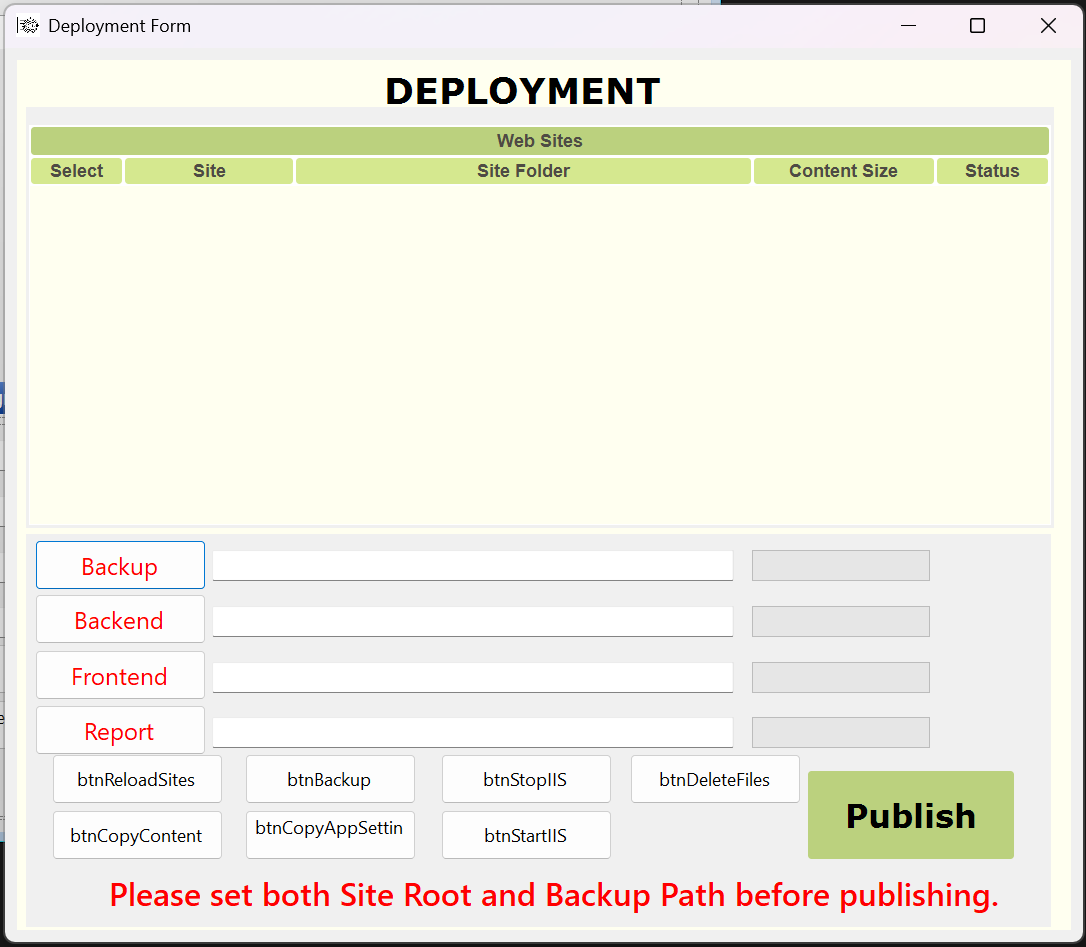
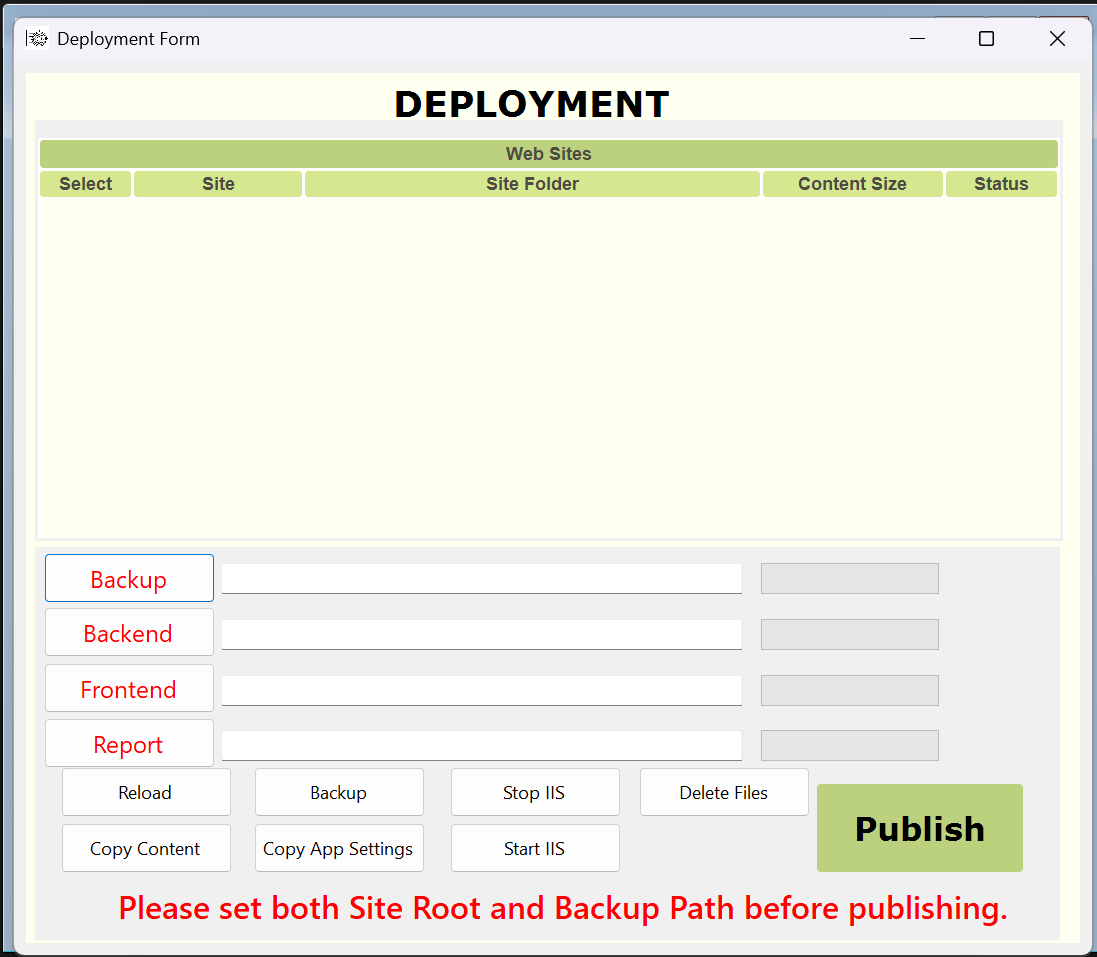
Update button labels for clarity in DeploymentForm
The text labels for several buttons in the `DeploymentForm.Designer.cs` file have been updated to be more descriptive. The changes include:
- `btnReloadSites` changed to "Reload"
- `btnBackup` changed to "Backup"
- `btnStopIIS` changed to "Stop IIS"
- `btnStartIIS` changed to "Start IIS"
- `btnDeleteFiles` changed to "Delete Files"
- `btnCopyAppSettings` changed to "Copy App Settings"
- `btnCopyContent` changed to "Copy Content"

Changed region(s): [[0.0, 0.0, 1.0, 1.0], [0.6989, 0.735, 0.8508, 0.7656], [0.6989, 0.6125, 0.8508, 0.6431]]

diff --git a/src/ServerDeployment.Console/Forms/AppForms/DeploymentForm.Designer.cs b/src/ServerDeployment.Console/Forms/AppForms/DeploymentForm.Designer.cs
@@ -69,7 +69,7 @@
             btnReloadSites.Name = "btnReloadSites";
             btnReloadSites.Size = new Size(171, 50);
             btnReloadSites.TabIndex = 8;
-            btnReloadSites.Text = "btnReloadSites";
+            btnReloadSites.Text = "Reload";
             btnReloadSites.UseVisualStyleBackColor = true;
             btnReloadSites.Click += btnReloadSites_Click;
             // 
@@ -79,7 +79,7 @@
             btnBackup.Name = "btnBackup";
             btnBackup.Size = new Size(171, 50);
             btnBackup.TabIndex = 9;
-            btnBackup.Text = "btnBackup";
+            btnBackup.Text = "Backup";
             btnBackup.UseVisualStyleBackColor = true;
             btnBackup.Click += btnBackup_Click;
             // 
@@ -89,7 +89,7 @@
             btnStopIIS.Name = "btnStopIIS";
             btnStopIIS.Size = new Size(171, 50);
             btnStopIIS.TabIndex = 10;
-            btnStopIIS.Text = "btnStopIIS";
+            btnStopIIS.Text = "Stop IIS";
             btnStopIIS.UseVisualStyleBackColor = true;
             btnStopIIS.Click += btnStopIIS_Click;
             // 
@@ -99,7 +99,7 @@
             btnStartIIS.Name = "btnStartIIS";
             btnStartIIS.Size = new Size(171, 50);
             btnStartIIS.TabIndex = 14;
-            btnStartIIS.Text = "btnStartIIS";
+            btnStartIIS.Text = "Start IIS";
             btnStartIIS.UseVisualStyleBackColor = true;
             btnStartIIS.Click += btnStartIIS_Click;
             // 
@@ -109,7 +109,7 @@
             btnDeleteFiles.Name = "btnDeleteFiles";
             btnDeleteFiles.Size = new Size(171, 50);
             btnDeleteFiles.TabIndex = 11;
-            btnDeleteFiles.Text = "btnDeleteFiles";
+            btnDeleteFiles.Text = "Delete Files";
             btnDeleteFiles.UseVisualStyleBackColor = true;
             btnDeleteFiles.Click += btnDeleteFiles_Click;
             // 
@@ -119,7 +119,7 @@
             btnCopyAppSettings.Name = "btnCopyAppSettings";
             btnCopyAppSettings.Size = new Size(171, 50);
             btnCopyAppSettings.TabIndex = 13;
-            btnCopyAppSettings.Text = "btnCopyAppSettings";
+            btnCopyAppSettings.Text = "Copy App Settings";
             btnCopyAppSettings.UseVisualStyleBackColor = true;
             btnCopyAppSettings.Click += btnCopyAppSettings_Click;
             // 
@@ -137,7 +137,7 @@
             btnCopyContent.Name = "btnCopyContent";
             btnCopyContent.Size = new Size(171, 50);
             btnCopyContent.TabIndex = 12;
-            btnCopyContent.Text = "btnCopyContent";
+            btnCopyContent.Text = "Copy Content";
             btnCopyContent.UseVisualStyleBackColor = true;
             btnCopyContent.Click += btnCopyContent_Click;
             // 
